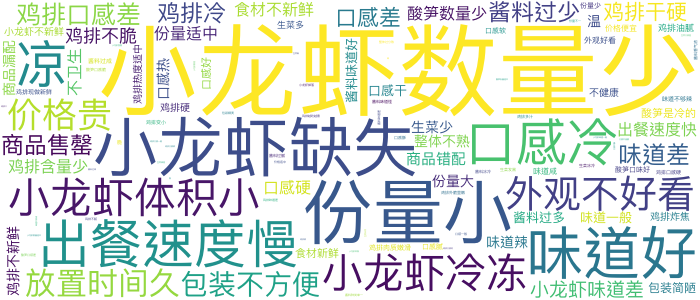
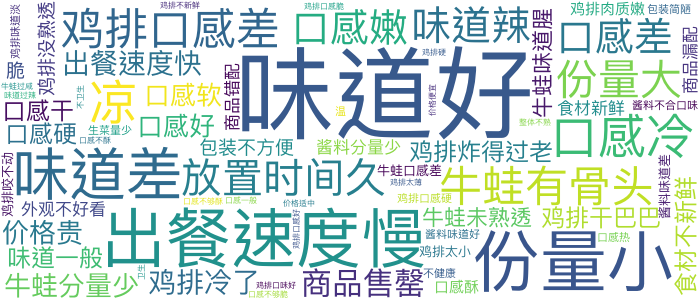
tmp

diff --git a/dashboard.py b/dashboard.py
@@ -39,8 +39,6 @@ options = list(range(len(lang)))
 st.session_state['language'] = st.sidebar.radio("语言/Language", options, format_func=lambda x: lang[x])
 
 st.sidebar.info(f'''Logged in: **Edgar Cao**\ncao.edgar@bcg.com''')
-st.sidebar.divider()
-
 
 def load_json(file_path):
     with open(file_path, 'r', encoding='utf-8') as file:
@@ -114,15 +112,28 @@ if st.session_state['language'] == 0:
         st.session_state['prod_display_name'] = mapper['product'][st.session_state['prod_display_name']]
 
     st.sidebar.header("消费者洞察分析")
-    st.sidebar.button("**牛蛙塔可** \n\n",
-                      use_container_width=True,
-                      on_click=set_product_frog)
-    st.sidebar.button("**小龙虾塔可** \n\n",
-                      use_container_width=True,
-                      on_click=set_product_crawfish)
-    st.sidebar.button("**大盘鸡K萨** \n\n ",
-                      use_container_width=True,
-                      on_click=set_product_k_sa)
+    fnames = (
+        '牛蛙塔可',
+        '小龙虾塔可',
+        '大盘鸡K萨'
+    )
+    options = list(range(len(fnames)))
+    k = st.sidebar.selectbox("请选择要分析的新产品", options, format_func=lambda x: fnames[x])
+    if k == 0:
+        set_product_frog()
+    elif k == 1:
+        set_product_crawfish()
+    elif k == 2:
+        set_product_k_sa()
+    # st.sidebar.button("**牛蛙塔可** \n\n",
+    #                   use_container_width=True,
+    #                   on_click=set_product_frog)
+    # st.sidebar.button("**小龙虾塔可** \n\n",
+    #                   use_container_width=True,
+    #                   on_click=set_product_crawfish)
+    # st.sidebar.button("**大盘鸡K萨** \n\n ",
+    #                   use_container_width=True,
+    #                   on_click=set_product_k_sa)
 
     product_name = st.session_state.selected_product
     display_name = st.session_state.prod_display_name
@@ -139,25 +150,18 @@ if st.session_state['language'] == 0:
         df_cleaned = df_cleaned[df_cleaned['entity'] == product_name]
         df_cleaned = df_cleaned[df_cleaned['category'] != '综合']
 
-        st.write('请选择洞察维度：')
-        op1, op2= st.columns(2)
+        st.sidebar.write('**请选择洞察维度**')
+        # op1, op2= st.columns(2)
         # with op1:
-        #     views = ['All', '产品视角', '非产品视角']
-        #     sel_view = st.selectbox('洞察视角', options=['All', '产品视角', '非产品视角'])
-        #     if sel_view == '产品视角':
-        #         df_cleaned = df_cleaned[df_cleaned['product_related'] == 1]
-        #     elif sel_view == '非产品视角':
-        #         df_cleaned = df_cleaned[df_cleaned['product_related'] == 0]
-        with op1:
-            categories = ['All'] + df_cleaned['category'].drop_duplicates().tolist()
-            sel_category = st.selectbox('一级标签', categories)
-            if sel_category != 'All':
-                df_cleaned = df_cleaned[df_cleaned['category'] == sel_category]
-        with op2:
-            parts = ['All'] + df_cleaned['parts'].drop_duplicates().tolist()
-            sel_part = st.selectbox('组成部分', parts)
-            if sel_part != 'All':
-                df_cleaned = df_cleaned[df_cleaned['parts'] == sel_part]
+        categories = ['All'] + df_cleaned['category'].drop_duplicates().tolist()
+        sel_category = st.sidebar.selectbox('一级标签', categories)
+        if sel_category != 'All':
+            df_cleaned = df_cleaned[df_cleaned['category'] == sel_category]
+        # with op2:
+        parts = ['All'] + df_cleaned['parts'].drop_duplicates().tolist()
+        sel_part = st.sidebar.selectbox('组成部分', parts)
+        if sel_part != 'All':
+            df_cleaned = df_cleaned[df_cleaned['parts'] == sel_part]
 
         # "op", option
         if sel_category == 'All':
@@ -276,100 +280,139 @@ if st.session_state['language'] == 0:
 
         # pill section
         st.markdown(f'''#### :green[3. 二级标签下钻洞察]''')
-        neg = st.checkbox("**负向观点**: 提及 " + str(len(neg_reviews)) + "次，占比" + neg_percent, value=True, key='5')
-        pos = st.checkbox("**正向观点**: 提及 " + str(len(pos_reviews)) + "次，占比" + pos_percent, value=True, key='6')
-        if pos and not neg:
-            df_filtered = pos_reviews
-        if neg and not pos:
-            df_filtered = neg_reviews
-        if pos and neg:
-            df_filtered = df_cleaned
-        if not pos and not neg:
-            df_filtered = df_cleaned
+        with st.expander('**点击展开消费者观点词云**'):
+            neg = st.checkbox("**负向观点**: 提及 " + str(len(neg_reviews)) + "次，占比" + neg_percent, value=True, key='5')
+            pos = st.checkbox("**正向观点**: 提及 " + str(len(pos_reviews)) + "次，占比" + pos_percent, value=True, key='6')
+            if pos and not neg:
+                df_filtered = pos_reviews
+            if neg and not pos:
+                df_filtered = neg_reviews
+            if pos and neg:
+                df_filtered = df_cleaned
+            if not pos and not neg:
+                df_filtered = df_cleaned
 
-        st.text('')
+            st.text('')
 
-        wc = wordcloud.WordCloud(
-            font_path='/System/Library/fonts/PingFang.ttc',  # 字体路劲
-            background_color='white',  # 背景颜色
-            width=700,
-            height=300,
-            max_font_size=100,  # 字体大小
-            min_font_size=1,
-            collocations=False,
-            # mask=plt.imread('./images/shape.png'),
-            max_words=500
-        )
-        print(df_filtered['tag'].value_counts())
-        wc.generate(" ".join(df_filtered['tag']))
-        wc.to_file('./images/词云.png')
-        st.image('./images/词云.png', use_column_width='auto', caption='二级标签词云', output_format="png")
+            wc = wordcloud.WordCloud(
+                font_path='/System/Library/fonts/PingFang.ttc',  # 字体路劲
+                background_color='white',  # 背景颜色
+                width=700,
+                height=300,
+                max_font_size=100,  # 字体大小
+                min_font_size=1,
+                collocations=False,
+                # mask=plt.imread('./images/shape.png'),
+                max_words=500
+            )
+            print(df_filtered['tag'].value_counts())
+            wc.generate(" ".join(df_filtered['tag']))
+            wc.to_file('./images/词云.png')
+            st.image('./images/词云.png', use_column_width='auto', caption='二级标签词云', output_format="png")
 
-        pills_ops = df_filtered['tag'].dropna().value_counts().reset_index()
-        pills_ops.columns = ['tag', 'count']
+        with st.expander('**点击下钻二级标签**'):
+            pills_ops = df_filtered['tag'].dropna().value_counts().reset_index()
+            pills_ops.columns = ['tag', 'count']
 
-        pills_ops_with_count = pills_ops.sort_values(by='count', ascending=False)
-        pills_to_display = [f"🌈所有二级标签: {pills_ops_with_count['count'].sum()}"] + [f"{pill_count['tag']}: {pill_count['count']}" for _, pill_count in pills_ops_with_count.iterrows()]
+            pills_ops_with_count = pills_ops.sort_values(by='count', ascending=False)
+            pills_to_display = [f"🌈所有二级标签: {pills_ops_with_count['count'].sum()}"] + [f"{pill_count['tag']}: {pill_count['count']}" for _, pill_count in pills_ops_with_count.iterrows()]
 
-        # emojis = ["🍀", "🎈", "🌈"]
+            # emojis = ["🍀", "🎈", "🌈"]
 
-        sel_pill = pills("", options=pills_to_display, clearable=True)
-        if sel_pill:
-            sel_tag = sel_pill.split(":")[0].replace(" ", "")
-            if sel_tag == '🌈所有二级标签':
-                df_table = df_filtered
+            sel_pill = pills("", options=pills_to_display, clearable=True)
+            if sel_pill:
+                sel_tag = sel_pill.split(":")[0].replace(" ", "")
+                if sel_tag == '🌈所有二级标签':
+                    df_table = df_filtered
+                else:
+                    df_table = df_filtered.loc[df_filtered['tag'] == sel_tag]
+
+            st.markdown(f"**标签为 :green[{sel_tag}] 的原始评论：共{len(df_table)}条**")
+            df_table = df_table[['chunk', 'category', 'parts', 'sentiment', 'tag', 'comment', 'province', 'survey_time']]
+            df_table.columns = ['Chunk', 'Category', 'Parts', 'Sentiment', 'Tag', 'Comment', 'Province', 'Timestamp']
+            df_table['Date'] = pd.to_datetime(df_table['Timestamp']).dt.date
+            df_table.reset_index(drop=True, inplace=True)
+            reviews = '\n\n'.join(df_table['Chunk'].tolist())
+
+            # 假设数据存储在一个名为df的DataFrame中，包含"省份"和"数据"列
+            df_by_province = df_table.groupby('Province').size().reset_index()
+            df_by_province.columns = ['省份', '数据']
+
+            # 创建一个空白地图
+            interactive_map = folium.Map(
+                location=[38, 105],
+                zoom_start=3.5,
+                scrollWheelZoom=False
+            )
+
+            provinces_map = json.loads(open("./images/china_province.geojson",'r').read().replace('自治区','').replace('回族','').replace('壮族','').replace('维吾尔',''))
+            provinces_list = pd.DataFrame({'省份':[x['properties']['NL_NAME_1'] for x in provinces_map['features']]})
+            df_by_province = df_by_province.merge(provinces_list, how='outer').fillna(0)
+            choropleth = folium.Choropleth(
+                geo_data=provinces_map,
+                # color="sunsetdark",
+                data=df_by_province,
+                columns=('省份','数据'),
+                key_on='properties.NL_NAME_1',
+                line_opacity=0.5,
+                highlight=True
+            )
+            choropleth.geojson.add_to(interactive_map)
+            st_map = st_folium(interactive_map, width=700, height=600)
+            if st.button('选择所有省份'):
+                st_map['last_object_clicked'] = None
+            if st_map['last_object_clicked'] is not None:
+                sel_province = st_map['last_active_drawing']['properties']['NL_NAME_1']
+                try:
+                    sel_province_num = int(df_by_province.loc[df_by_province['省份'] == sel_province, '数据'].values[0])
+                except:
+                    sel_province_num = 0
+                st.write(
+                    f'**:green[{sel_province}] 地区，共有 :green[{sel_province_num}] 条标签为 :green[{sel_tag}] 的原始评论**')
             else:
-                df_table = df_filtered.loc[df_filtered['tag'] == sel_tag]
+                sel_province = 'All'
+                sel_province_num = int(df_by_province['数据'].sum())
+                st.write(f'**:green[所有省份] 地区，共有 :green[{sel_province_num}] 条标签为 :green[{sel_tag}] 的原始评论**')
 
-        st.markdown(f"**标签为 :green[{sel_tag}] 的原始评论：共{len(df_table)}条**")
-        df_table = df_table[['chunk', 'category', 'parts', 'sentiment', 'tag', 'comment', 'province', 'survey_time']]
-        df_table.columns = ['Chunk', 'Category', 'Parts', 'Sentiment', 'Tag', 'Comment', 'Province', 'Timestamp']
-        df_table.reset_index(drop=True, inplace=True)
-        reviews = '\n\n'.join(df_table['Chunk'].tolist())
 
-        # 假设数据存储在一个名为df的DataFrame中，包含"省份"和"数据"列
-        df_by_province = df_table.groupby('Province').size().reset_index()
-        df_by_province.columns = ['省份', '数据']
+        with st.expander('**点击展开消费者原始评论**'):
+            st.markdown("<div style='height:20px'> </div>", unsafe_allow_html=True)
+            df_table.index = df_table.index + 1
+            if sel_province != 'All':
+                df_show = df_table[df_table['Province'] == sel_province]
+            else:
+                df_show = df_table
+            if df_show.shape[0] > 0:
+                df_show = df_show[['Comment', 'Chunk', 'Sentiment', 'Parts', 'Category', 'Tag']]
+                df_show.columns = ['原始评论', '语块切分', '情感分类', '组成部分', '一级标签', '二级标签']
+                st.table(df_show)
 
-        # 创建一个空白地图
-        interactive_map = folium.Map(
-            location=[38, 105],
-            zoom_start=3.5,
-            scrollWheelZoom=False
-        )
+        with st.expander('**点击展开VOC变化趋势分析**'):
+            op1, op2 = st.columns(2)
+            with op1:
+                st.write('**请定义旧时段**')
+                date_start_1 = st.date_input("起始日期", datetime.date(2023, 7, 21))
+                date_end_1 = st.date_input("结束日期", datetime.date(2023, 7, 22))
+                df_table_window_1 = df_table[(df_table['Date']>=date_start_1) & (df_table['Date']<date_end_1)]
+                df_table_window_1 = df_table_window_1.groupby('Tag').size().sort_values(ascending=False).reset_index()
+                df_table_window_1.columns = ['二级标签', '旧时段评论数量']
+            with op2:
+                st.write('**请定义新时段**')
+                date_start_2 = st.date_input("起始日期", datetime.date(2023, 7, 23))
+                date_end_2 = st.date_input("结束日期", datetime.date(2023, 7, 24))
+                df_table_window_2 = df_table[(df_table['Date'] >= date_start_2) & (df_table['Date'] < date_end_2)]
+                df_table_window_2 = df_table_window_2.groupby('Tag').size().sort_values(ascending=False).reset_index()
+                df_table_window_2.columns = ['二级标签', '新时段评论数量']
+            df_table_compare = df_table_window_1.merge(df_table_window_2, how='outer', on='二级标签').fillna(0)
+            df_table_compare['旧时段评论数量'] = df_table_compare['旧时段评论数量'].astype(int)
+            df_table_compare['新时段评论数量'] = df_table_compare['新时段评论数量'].astype(int)
+            df_table_compare['变化'] = (df_table_compare['新时段评论数量']-df_table_compare['旧时段评论数量']) / df_table_compare['旧时段评论数量'] * 100
+            df_table_compare = df_table_compare.round({'变化': 2})
+            df_table_compare['变化'] = df_table_compare['变化'].astype(str) + '%'
+            df_table_compare.index += 1
+            st.table(df_table_compare)
 
-        provinces_map = json.loads(open("./images/china_province.geojson",'r').read().replace('自治区','').replace('回族','').replace('壮族','').replace('维吾尔',''))
-        provinces_list = pd.DataFrame({'省份':[x['properties']['NL_NAME_1'] for x in provinces_map['features']]})
-        df_by_province = df_by_province.merge(provinces_list, how='outer').fillna(0)
-        choropleth = folium.Choropleth(
-            geo_data=provinces_map,
-            # color="sunsetdark",
-            data=df_by_province,
-            columns=('省份','数据'),
-            key_on='properties.NL_NAME_1',
-            line_opacity=0.5,
-            highlight=True
-        )
-        choropleth.geojson.add_to(interactive_map)
-        st_map = st_folium(interactive_map, width=700, height=600)
-        if st.button('选择所有省份'):
-            st_map['last_object_clicked'] = None
-        if st_map['last_object_clicked'] is not None:
-            sel_province = st_map['last_active_drawing']['properties']['NL_NAME_1']
-            try:
-                sel_province_num = int(df_by_province.loc[df_by_province['省份'] == sel_province, '数据'].values[0])
-            except:
-                sel_province_num = 0
-            st.write(
-                f'**:green[{sel_province}] 地区，共有 :green[{sel_province_num}] 条标签为 :green[{sel_tag}] 的原始评论**')
-        else:
-            sel_province = 'All'
-            sel_province_num = int(df_by_province['数据'].sum())
-            st.write(f'**:green[所有省份] 地区，共有 :green[{sel_province_num}] 条标签为 :green[{sel_tag}] 的原始评论**')
-
-        date_start = st.date_input("起始日期", datetime.date(2019, 7, 6))
-        date_end = st.date_input("结束日期", datetime.date(2019, 7, 6))
-
+        st.markdown(f'''#### :green[4. 在线生成观点总结]''')
         if st.button('生成总结'):
             st.session_state.reset_summary = True
             system_prompt = f'''
@@ -427,17 +470,7 @@ if st.session_state['language'] == 0:
                 response_text += item
                 message_col.write(response_text)
 
-        with st.expander('点击展开消费者原始评论'):
-            st.markdown("<div style='height:20px'> </div>", unsafe_allow_html=True)
-            df_table.index = df_table.index + 1
-            if sel_province != 'All':
-                df_show = df_table[df_table['Province'] == sel_province]
-            else:
-                df_show = df_table
-            if df_show.shape[0] > 0:
-                df_show = df_show[['Comment', 'Chunk', 'Sentiment', 'Parts', 'Category', 'Tag']]
-                df_show.columns = ['原始评论', '语块切分', '情感分类', '组成部分', '一级标签', '二级标签']
-                st.table(df_show)
+
 
 if st.session_state['language'] == 1:
 
